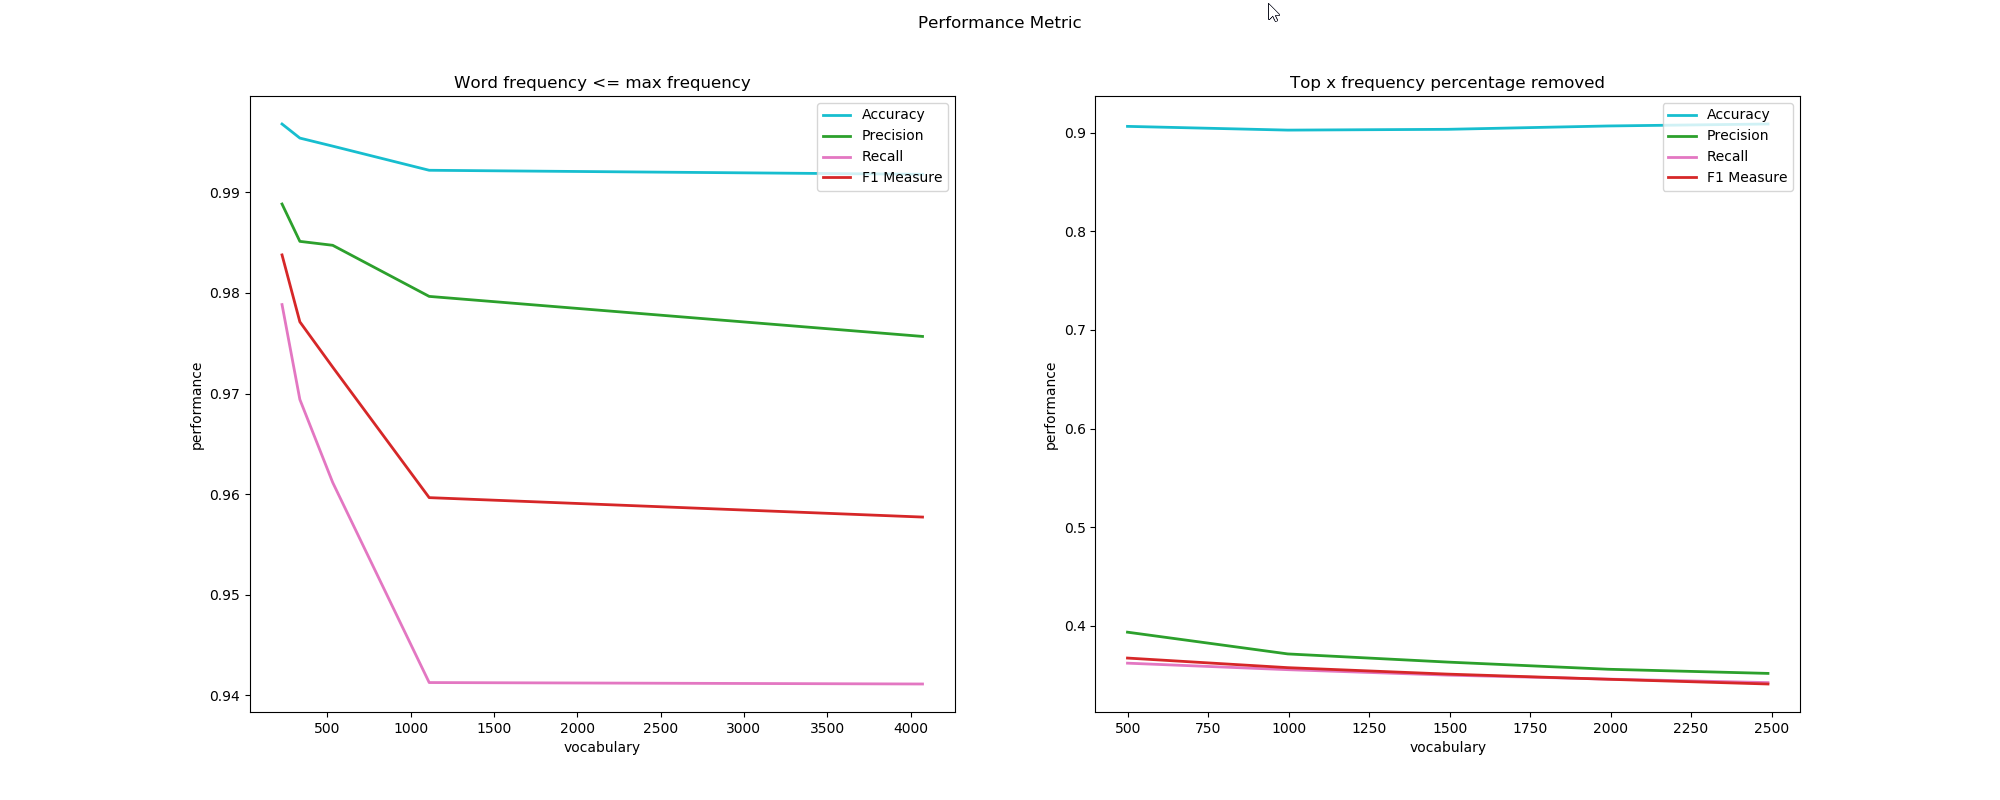
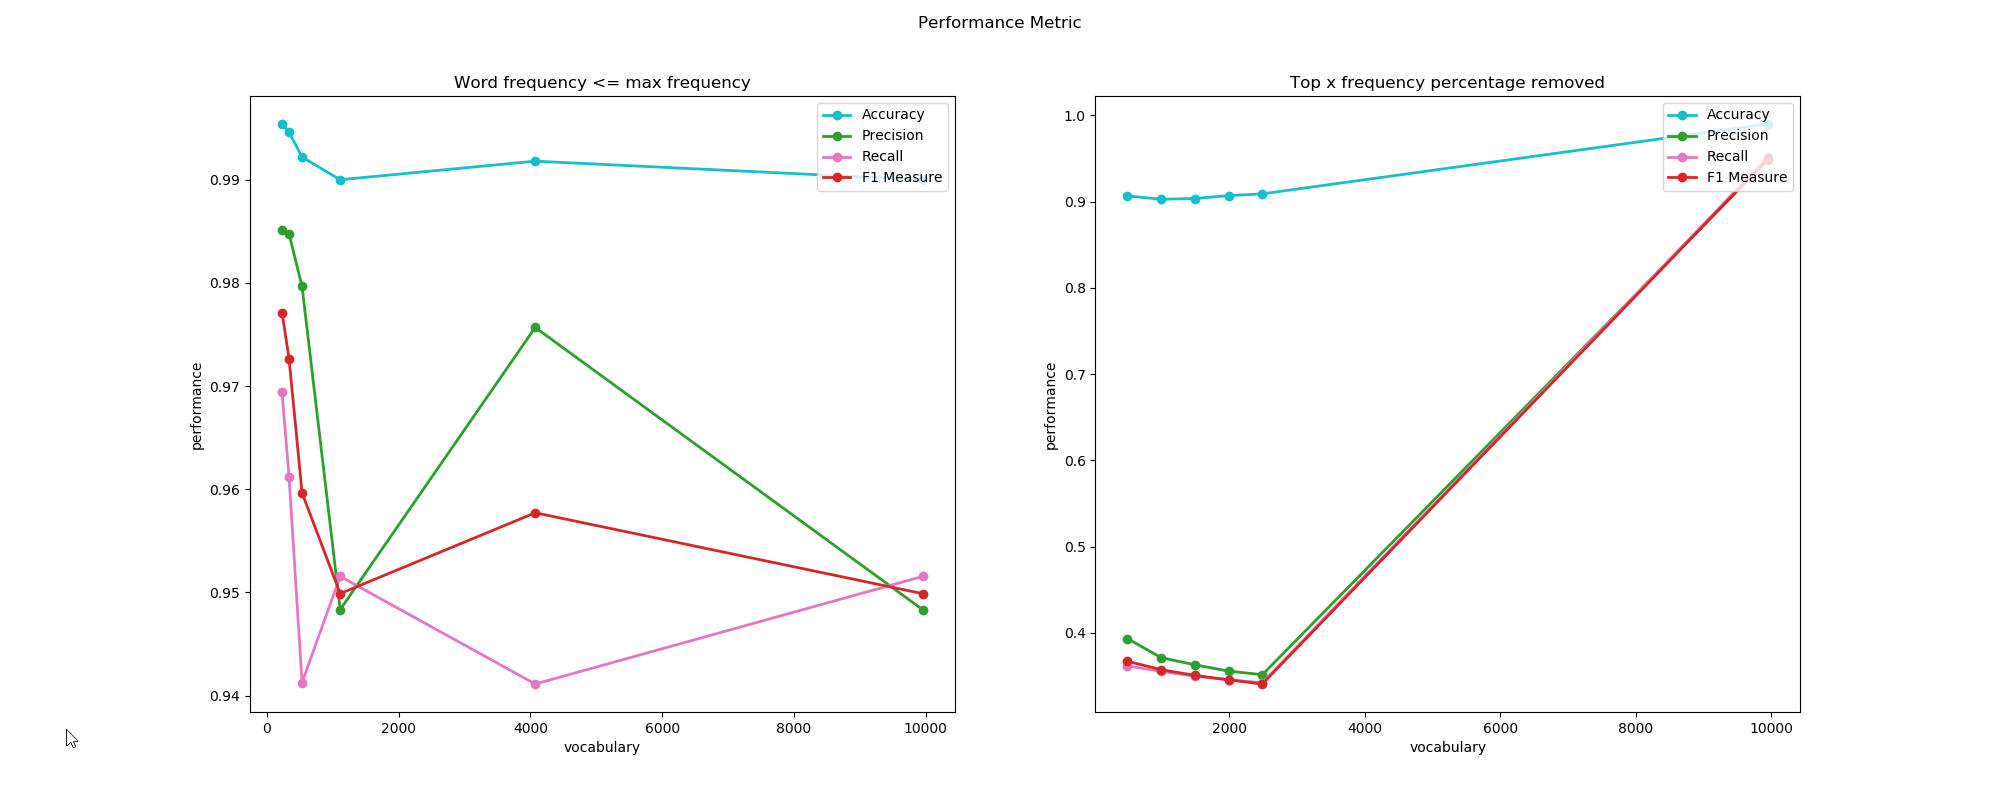
update readme with new screenshot to reflect changes to performance metrics

diff --git a/README.md b/README.md
@@ -43,14 +43,14 @@ the 2019 data is tested against the model.
 the files with '-results' in the filename contain the results of the classifications for a given 
 experiment.
 
-## test files
+## Test files
 test.csv is a subset of hns_2018-2019.csv it contains 200 rows of even data. This was use during development because
 of iteration speeds.
 
 hns_2018-2019.csv is the full data set comprising of 10 000 rows
 
 
-# sample output
+# Sample output
 
 ![ScreenShot 1](images/screen_shot_1.png?raw=true)
 
